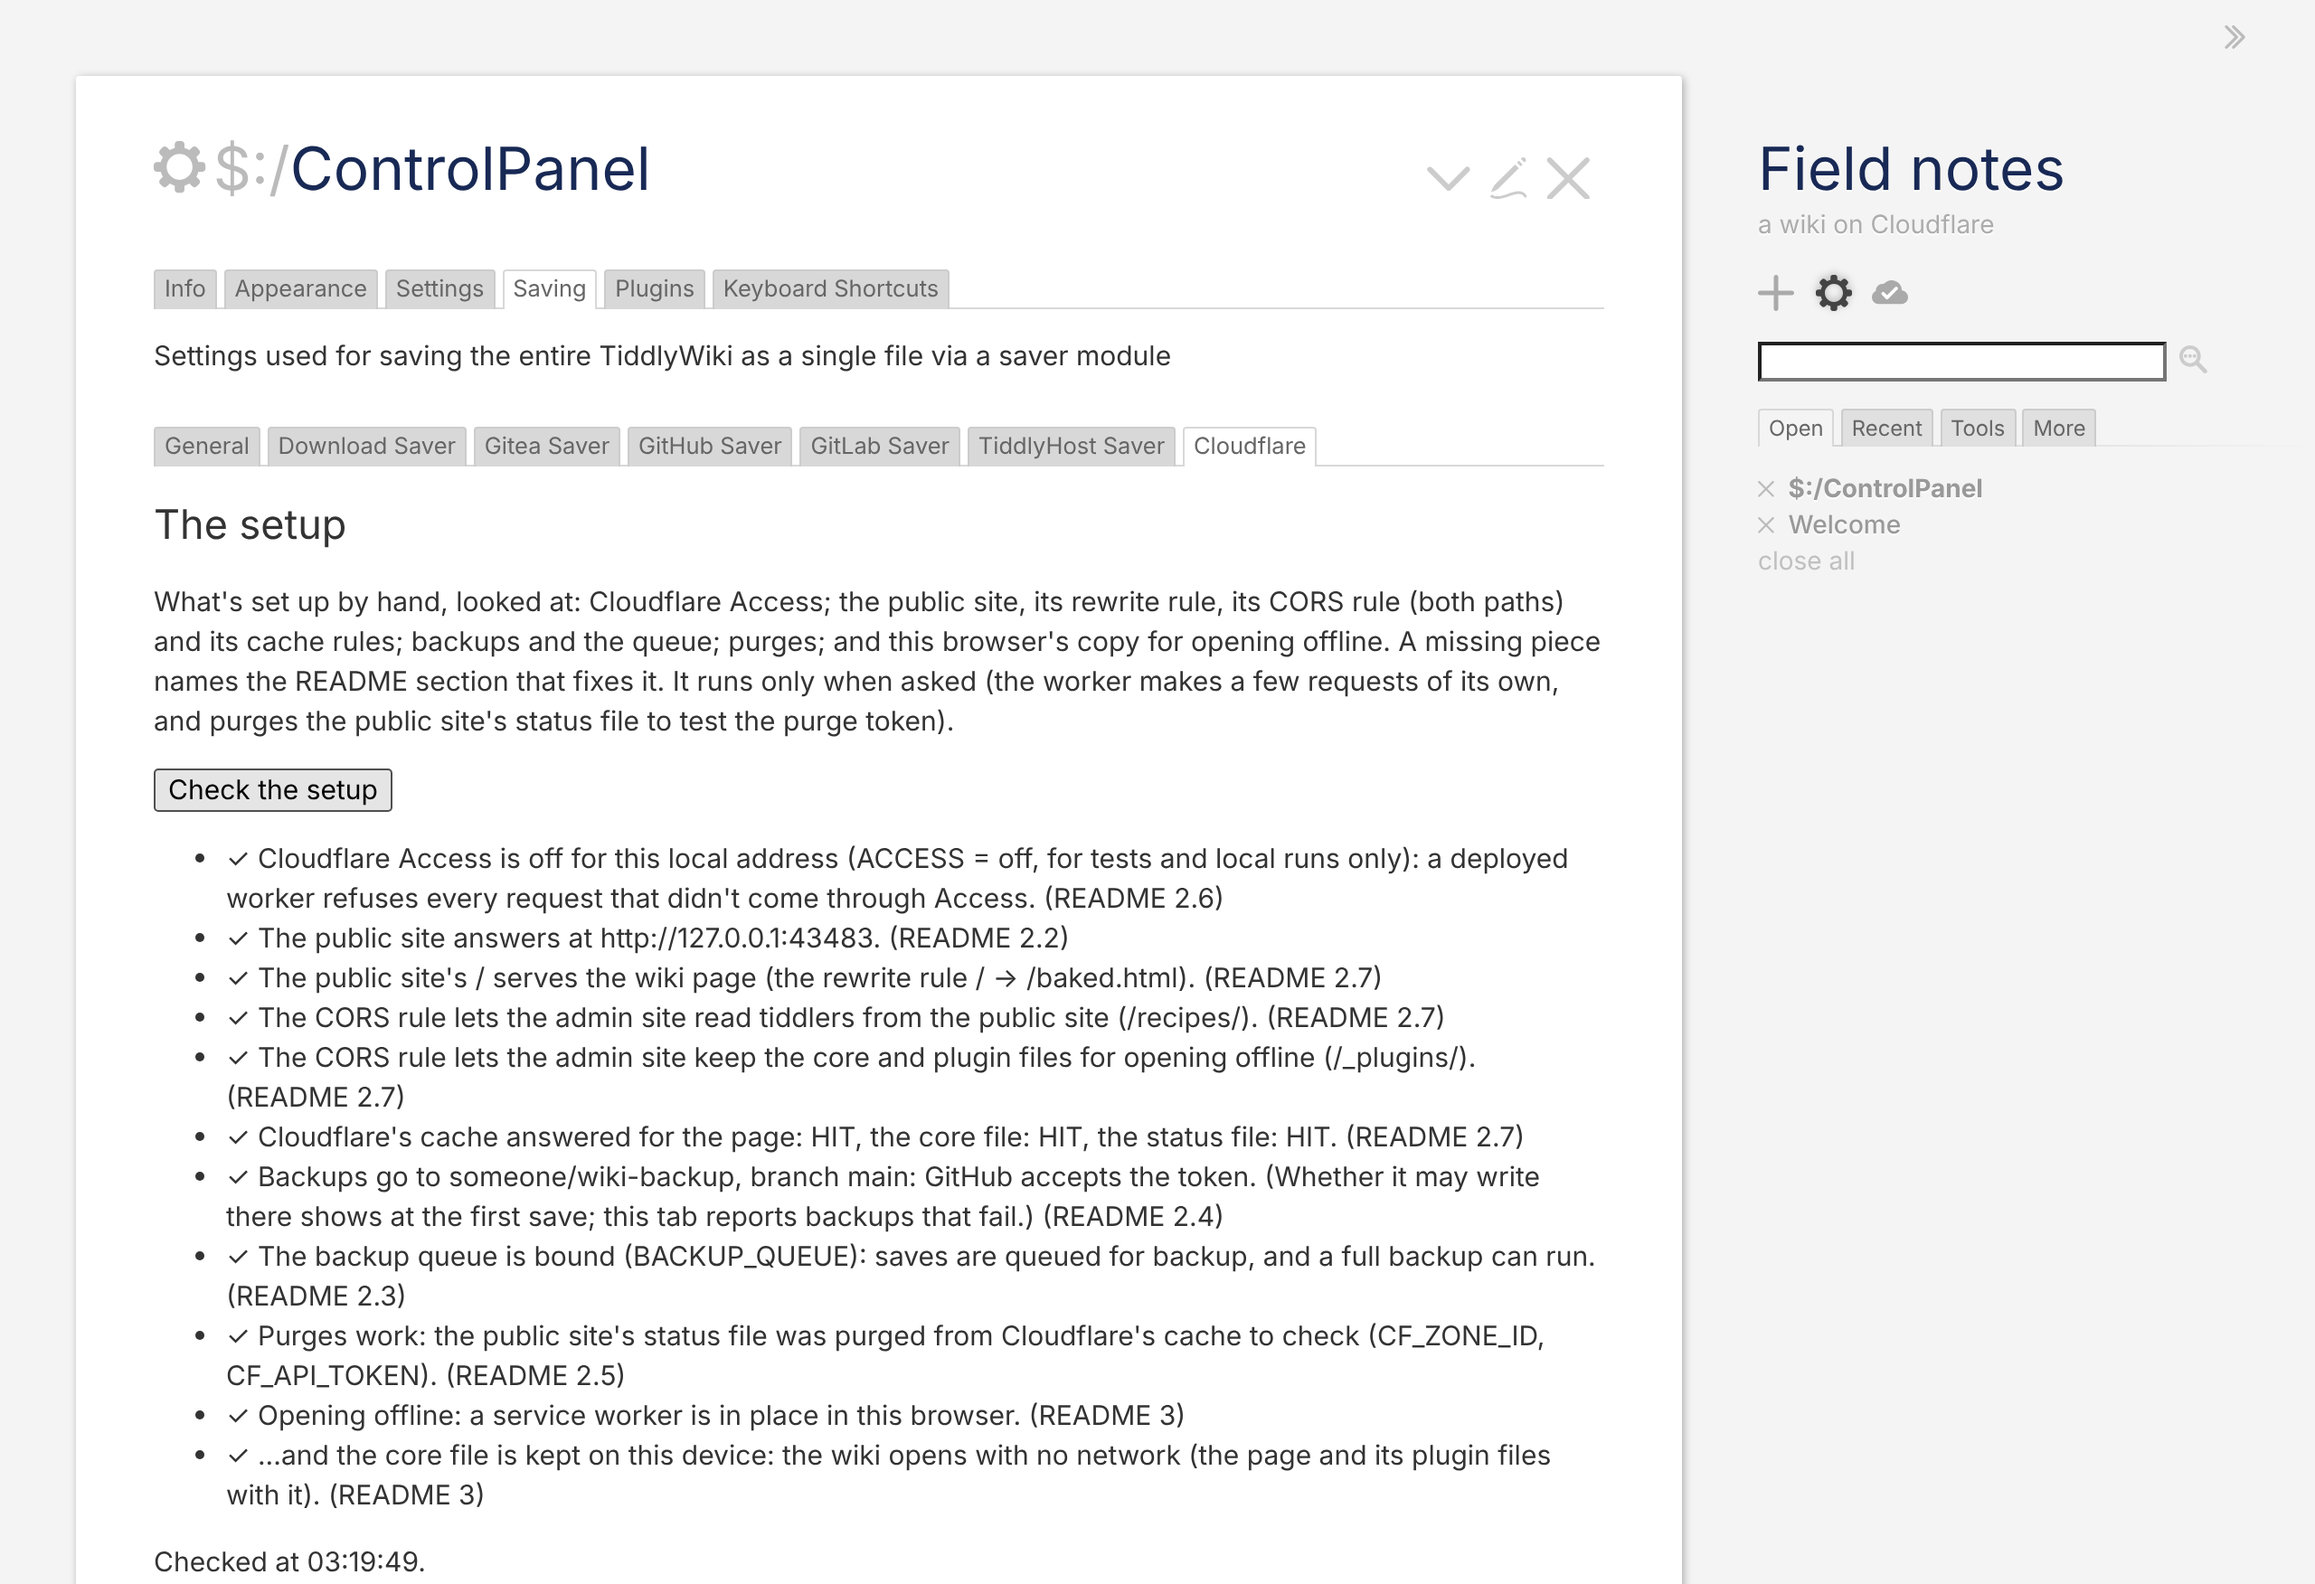
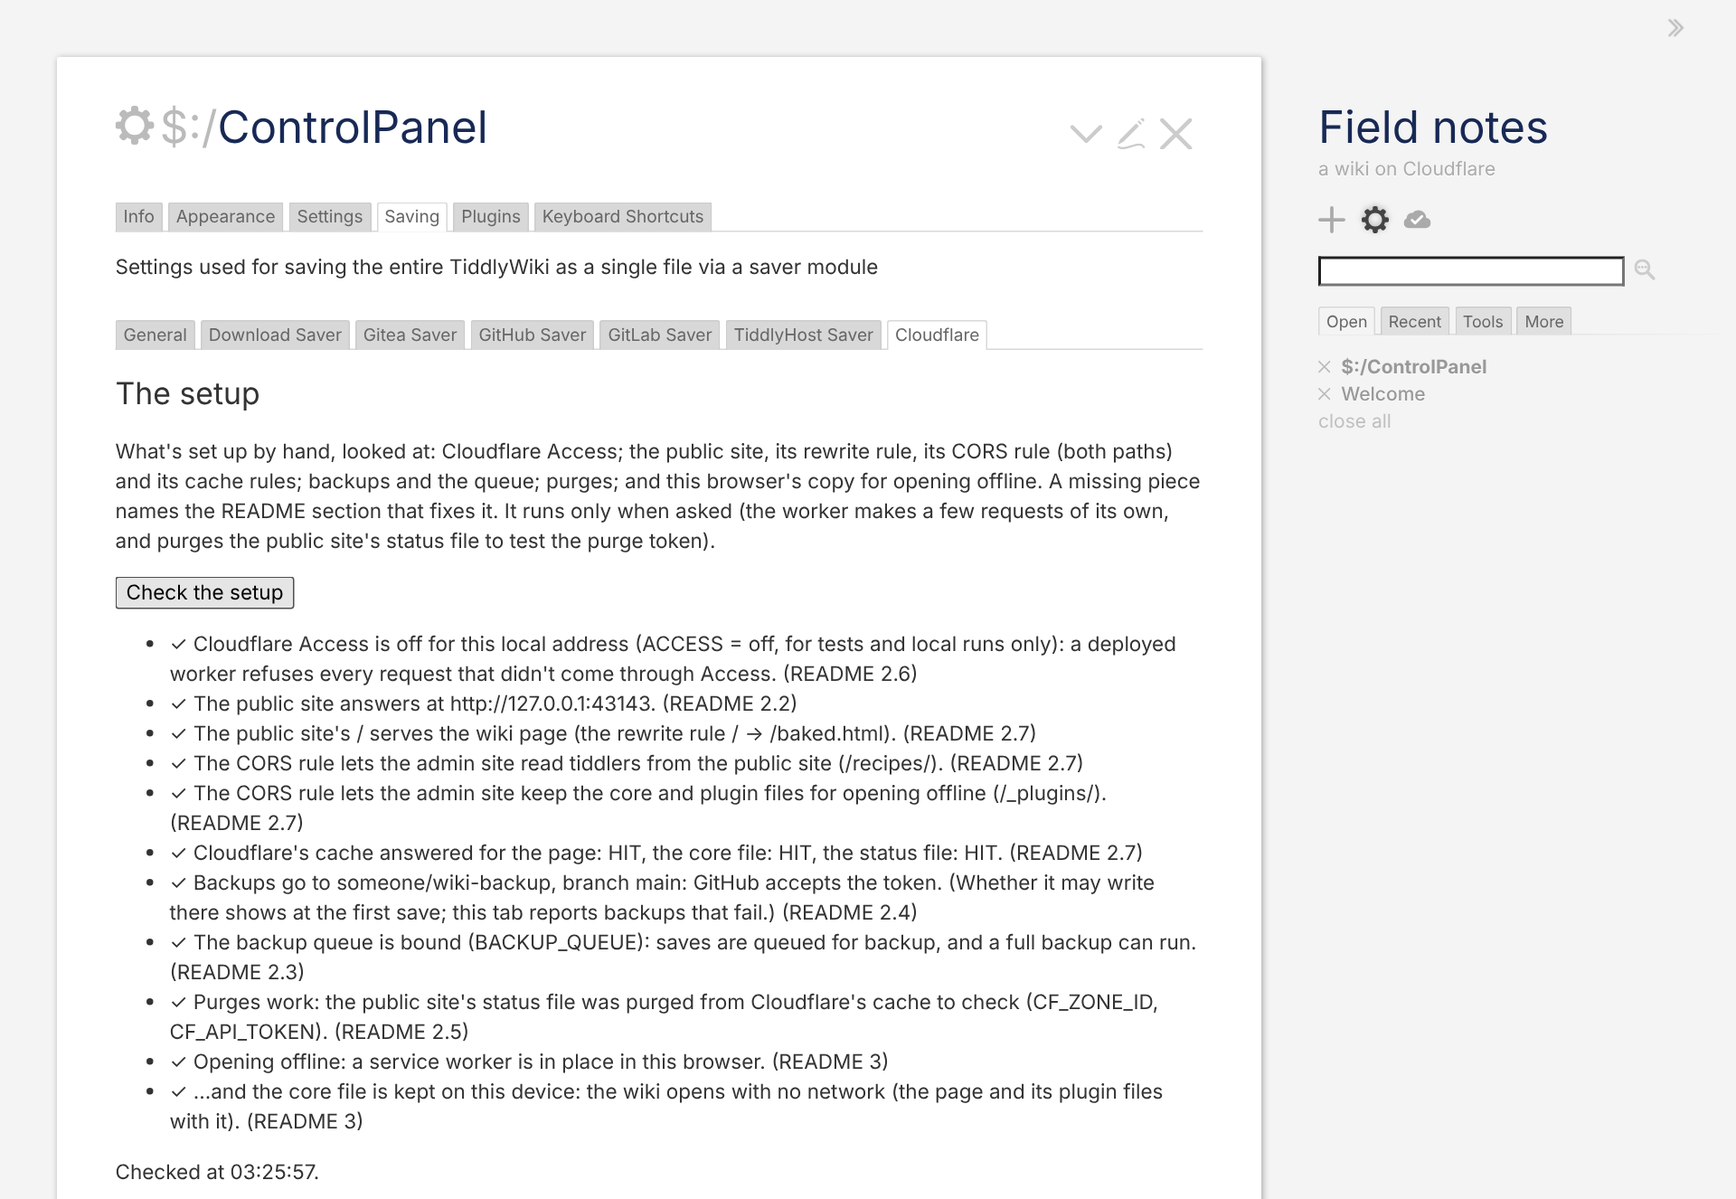
Take the README's screenshot with a tool, so it can follow the tab
docs/admin-wiki.png was taken by hand; the first change to the
Cloudflare tab's wording would have left it stale.

- tools/screenshot.mjs (npm run screenshot): a public wiki with backups
  through the test harness, a few tiddlers, the Control Panel on
  Saving → Cloudflare, "Check the setup" run, the hint closed, the
  picture at 1.5× down to the check's last line. It exits 1 if a line
  of the check isn't fine.
- The lint config treats it like a test file (browser globals in
  page.evaluate code); README 6's table and tree, CLAUDE.md step 4 (a
  change to the tab regenerates the screenshot), the changelog line.
- docs/admin-wiki.png regenerated by the tool.

Claude-Session: https://claude.ai/code/session_01S57PqhvyEoDRdvtcEx4JbJ

diff --git a/eslint.config.js b/eslint.config.js
@@ -17,12 +17,14 @@ export default [
   {
     // The worker (Cloudflare's runtime: the service worker globals), the build and the tests (Node)
     files: ["src/worker/**/*.js", "build.mjs", "tools/**/*.mjs", "eslint.config.js"],
+    ignores: ["tools/screenshot.mjs"],
     languageOptions: { ecmaVersion: 2024, sourceType: "module", globals: { ...globals.serviceworker, ...globals.node } },
     rules: RULES
   },
   {
-    // The tests: Node, with code that runs in the browser's tabs (page.evaluate) in the same files
-    files: ["test/**/*.mjs"],
+    // The tests, and the screenshot tool built on them: Node, with code that runs in the browser's
+    // tabs (page.evaluate) in the same files
+    files: ["test/**/*.mjs", "tools/screenshot.mjs"],
     languageOptions: { ecmaVersion: 2024, sourceType: "module", globals: { ...globals.node, ...globals.browser, $tw: "readonly" } },
     rules: RULES
   },

diff --git a/README.md b/README.md
@@ -34,7 +34,7 @@ About ten minutes, in this order. Section 2 has each step in full, and the wiki'
 
 ![The admin wiki: the Control Panel's Cloudflare tab after "Check the setup", every line fine](docs/admin-wiki.png)
 
-*The admin wiki: TiddlyWiki as it is, with the Cloudflare tab the worker adds, after* Check the setup. *(From a local run of the tests, so the addresses are local ones.)*
+*The admin wiki: TiddlyWiki as it is, with the Cloudflare tab the worker adds, after* Check the setup. *(Taken from the test setup by* `npm run screenshot`*, so the addresses are local ones.)*
 
 This README covers the setup, operating the wiki, troubleshooting, the limits and the tests. How the worker works, and why it's built this way, are in [docs/design.md](docs/design.md); what each test suite covers, in [docs/tests.md](docs/tests.md).
 
@@ -375,6 +375,7 @@ npm test                             # build (worker.js and seed/empty.html), ru
 |---|---|
 | `npm run build` | Writes `worker.js`, and `seed/empty.html`, an empty TiddlyWiki with the TiddlyWeb plugin, from the installed `tiddlywiki` package (kept when it's already of that version; `node tools/build-wiki.mjs --force` rebuilds it). |
 | `npm run check:build` | Fails, writing nothing, if `worker.js` isn't what the sources build (run it before committing, so `worker.js` is never out of date). |
+| `npm run screenshot` | Writes `docs/admin-wiki.png`, the screenshot at the top of this README, from a wiki run through the test setup in Chromium (`tools/screenshot.mjs`): run it when the Cloudflare tab changes. |
 | `npm run lint` | ESLint, with its recommended rules only: a name that doesn't exist (a function moved without its import, say), an unused one, an import assigned to. CI runs it first. |
 | `npm run test:fast` | The six suites that need no browser (a few minutes). |
 | `npm run test:browser` | The ten suites that run a real TiddlyWiki in Chromium. |
@@ -406,11 +407,12 @@ GitHub runs the same two groups, as two jobs side by side, for every pull reques
 ├── tools/build-wiki.mjs      builds it from the tiddlywiki package (npm run build)
 ├── tools/restore.mjs         merges a clone of the backup into one file any TiddlyWiki imports (2.4)
 ├── tools/run-suites.mjs      runs test suites one after the other, each to the end, with a summary (npm test); their output under test-results/, not committed
+├── tools/screenshot.mjs      takes the README's screenshot from a wiki run through the test setup (npm run screenshot)
 ├── docs/
 │   ├── design.md             how the worker works, and why it's built this way
 │   ├── tests.md              what each test suite covers, the R2 calls per kind of request, the CPU budgets
 │   ├── external-plugins.md   design notes for plugin files (design 1.8)
-│   └── admin-wiki.png        the screenshot at the top of this README
+│   └── admin-wiki.png        GENERATED: the screenshot at the top of this README (npm run screenshot)
 ├── .github/workflows/ci.yml  runs the tests on GitHub for every pull request and push to main, keeping a failed job's test-results/
 ├── src/
 │   ├── worker/               the worker's source, one module per concern (below)

diff --git a/CHANGELOG.md b/CHANGELOG.md
@@ -23,7 +23,7 @@ What changed, and what an update asks of you, newest first. Your worker is deplo
 - **Node.js 22 or newer** for the tests and for a deploy from a machine: Wrangler 4 needs it (README 6; Workers Builds has it). README 2.5 says to choose the type *Secret* in the dashboard's dialog, whose default shows the value; README 4 has a row for a build that fails in the deploy step on Cloudflare's API.
 - Public by design, stated up front; the backup can't be checked out on Windows (README 5); this file.
 - Tests: awkward titles (a comma, `%`, `#`, accents, emoji, slashes…) through every step; the restore round trip through TiddlyWiki's own import. The browser suites' watcher pairs each request with how it ended (from the cache or not) in order per address: a cache mark could land on an older request for the same address when the browser's event came first, a race the CI machine lost ("4 worker requests" at a reload, two of them never sent).
-- The README opens with a quick start and a screenshot of the admin wiki; what each test suite covers moved to `docs/tests.md`, and the check counts left the file tree (they change with every pull request).
+- The README opens with a quick start and a screenshot of the admin wiki (`npm run screenshot` takes it again from the test setup when the Cloudflare tab changes); what each test suite covers moved to `docs/tests.md`, and the check counts left the file tree (they change with every pull request).
 - Tests: `npm test` runs every suite to the end and ends with a summary of what failed, each suite's output in `test-results/`; a browser suite that fails leaves the requests its pages made and a Playwright trace per browser context there, and a failed CI job keeps the directory a week as an artifact (README 6; design 2.24). One CI run per commit, not per branch. Miniflare's queue runs batches one at a time in the tests, as `max_concurrency = 1` does on Cloudflare (the "never overlapped" check failed on a busy machine for Miniflare's sake). Three test races fixed: a public read the browser gives up on under load (the fallback to the worker is allowed for that tiddler, and no other), a click on *Edit* lost to a refresh, and a plugin file deleted while the tab's publish of the page was writing it back.
 
 ## 2026-10-11

diff --git a/CLAUDE.md b/CLAUDE.md
@@ -19,7 +19,7 @@ Each with its reason and what enforces it. A change that crosses one needs the r
 1. **Plan first, in the user's words:** the README paragraph the change would add (what the user will experience) and the list of tests, by name. Wait for a yes before writing code. A plan that reads as implementation detail is a sign the goal isn't clear yet.
 2. **Tests first, run red:** write them, run them, see them fail for the right reason. A test never seen failing may not test the goal.
 3. **Implement, then every suite** (below), then `npm run lint` and `npm run check:build` (`worker.js` is committed and must be what `src/` builds).
-4. **The docs in the same PR:** the why in design 2 (the alternatives considered, and why they lost), the how in the README, the what in `CHANGELOG.md` (with what an update asks of a user: an "Unreleased" entry), the roadmap updated (a finished step leaves it). A behaviour change without its design entry isn't finished.
+4. **The docs in the same PR:** the why in design 2 (the alternatives considered, and why they lost), the how in the README, the what in `CHANGELOG.md` (with what an update asks of a user: an "Unreleased" entry), the roadmap updated (a finished step leaves it); the README's screenshot regenerated (`npm run screenshot`) if the Cloudflare tab changed. A behaviour change without its design entry isn't finished.
 5. **One PR at a time,** branched from `main`, merged by the owner; the next branches from the merge. Never push to `main`. Commits that only move code are their own commits, listed in `.git-blame-ignore-revs`.
 6. **Ideas go to the roadmap's parked list** with the reason, not into the code of the current step. "While I'm here" is how drift starts.
 
